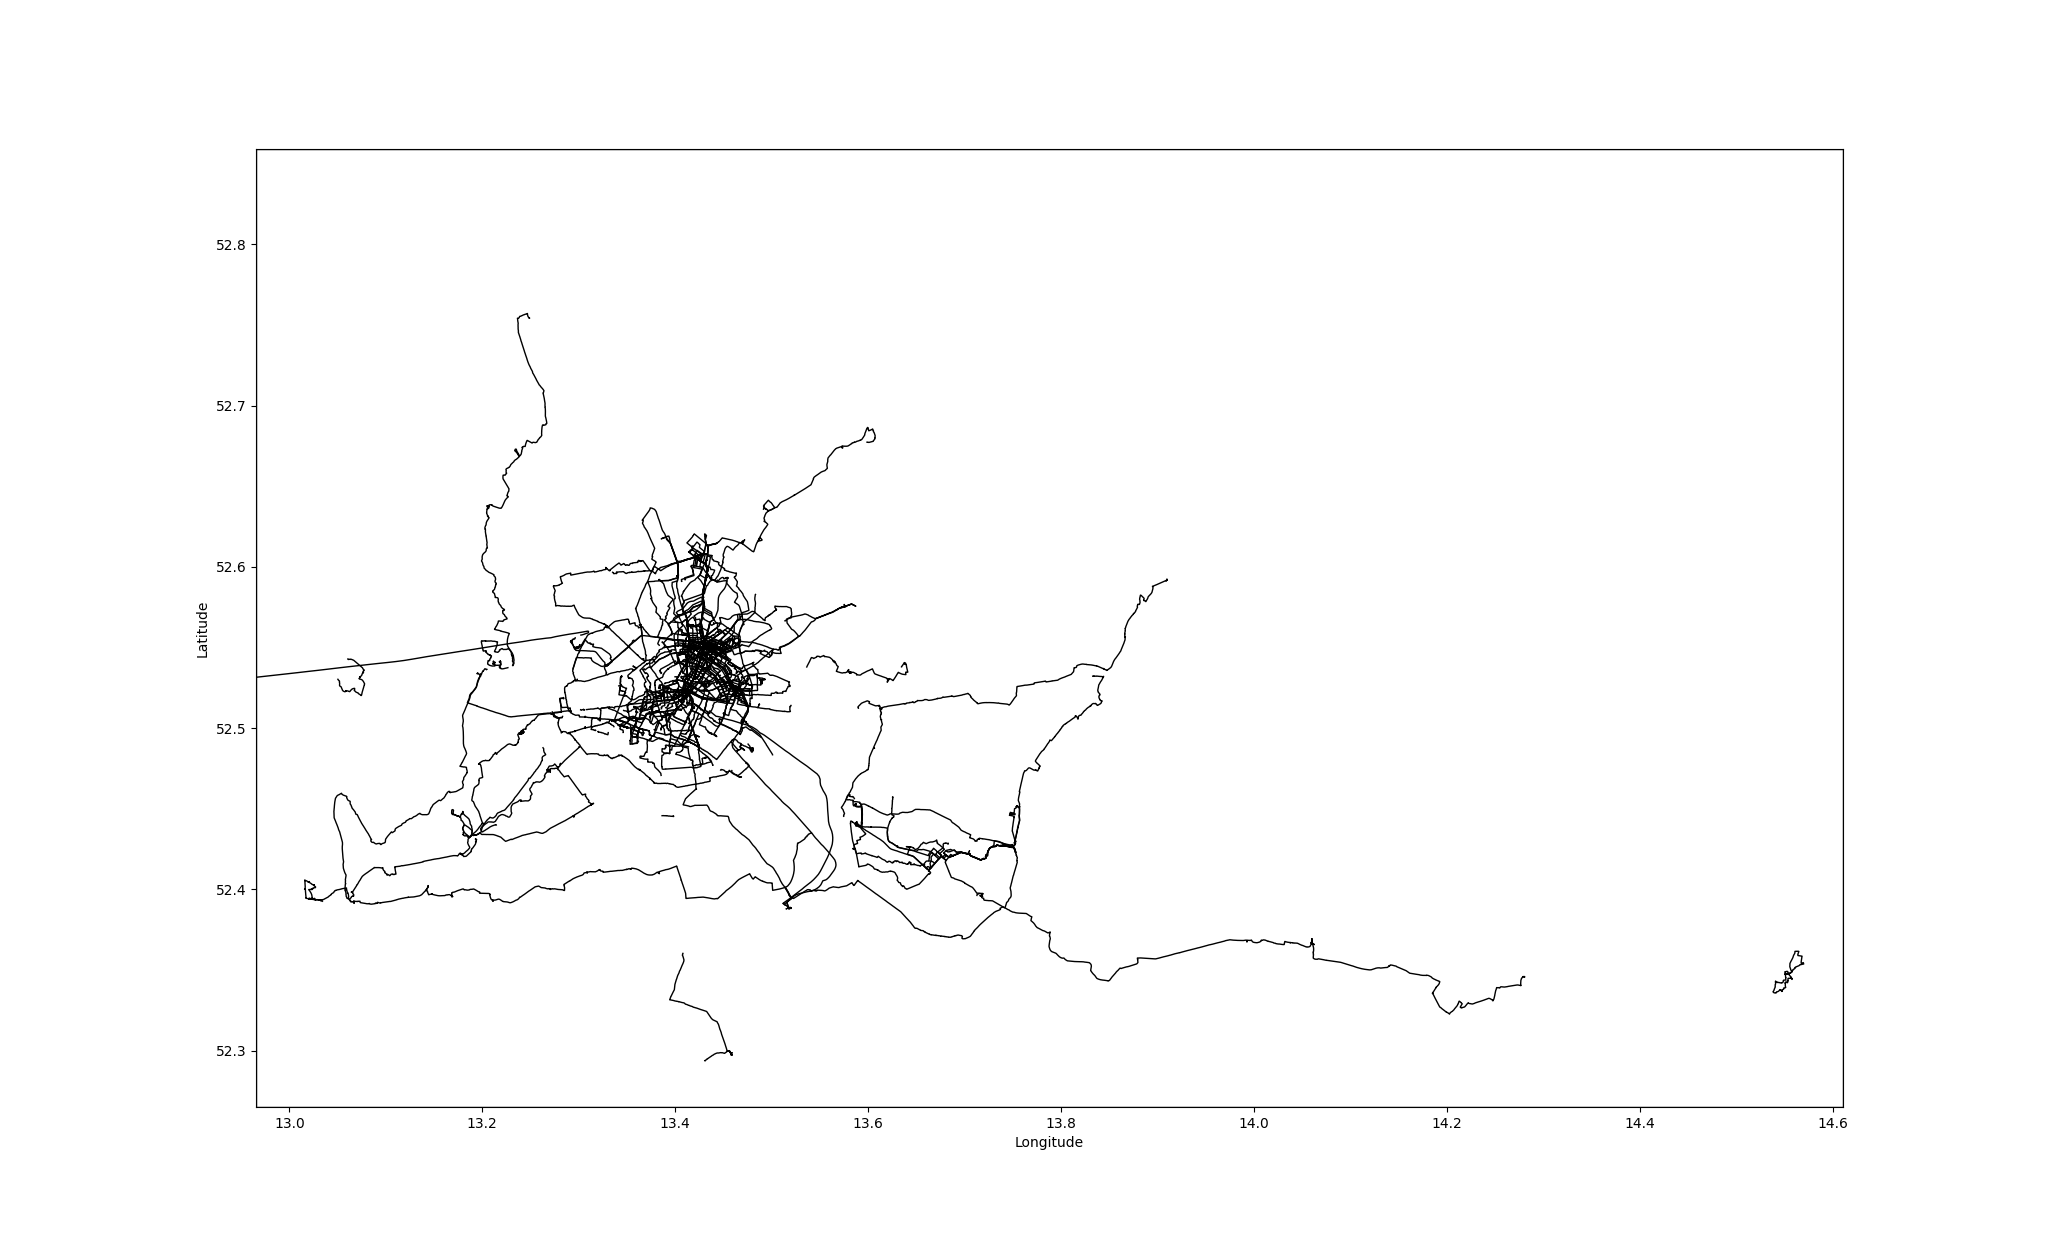
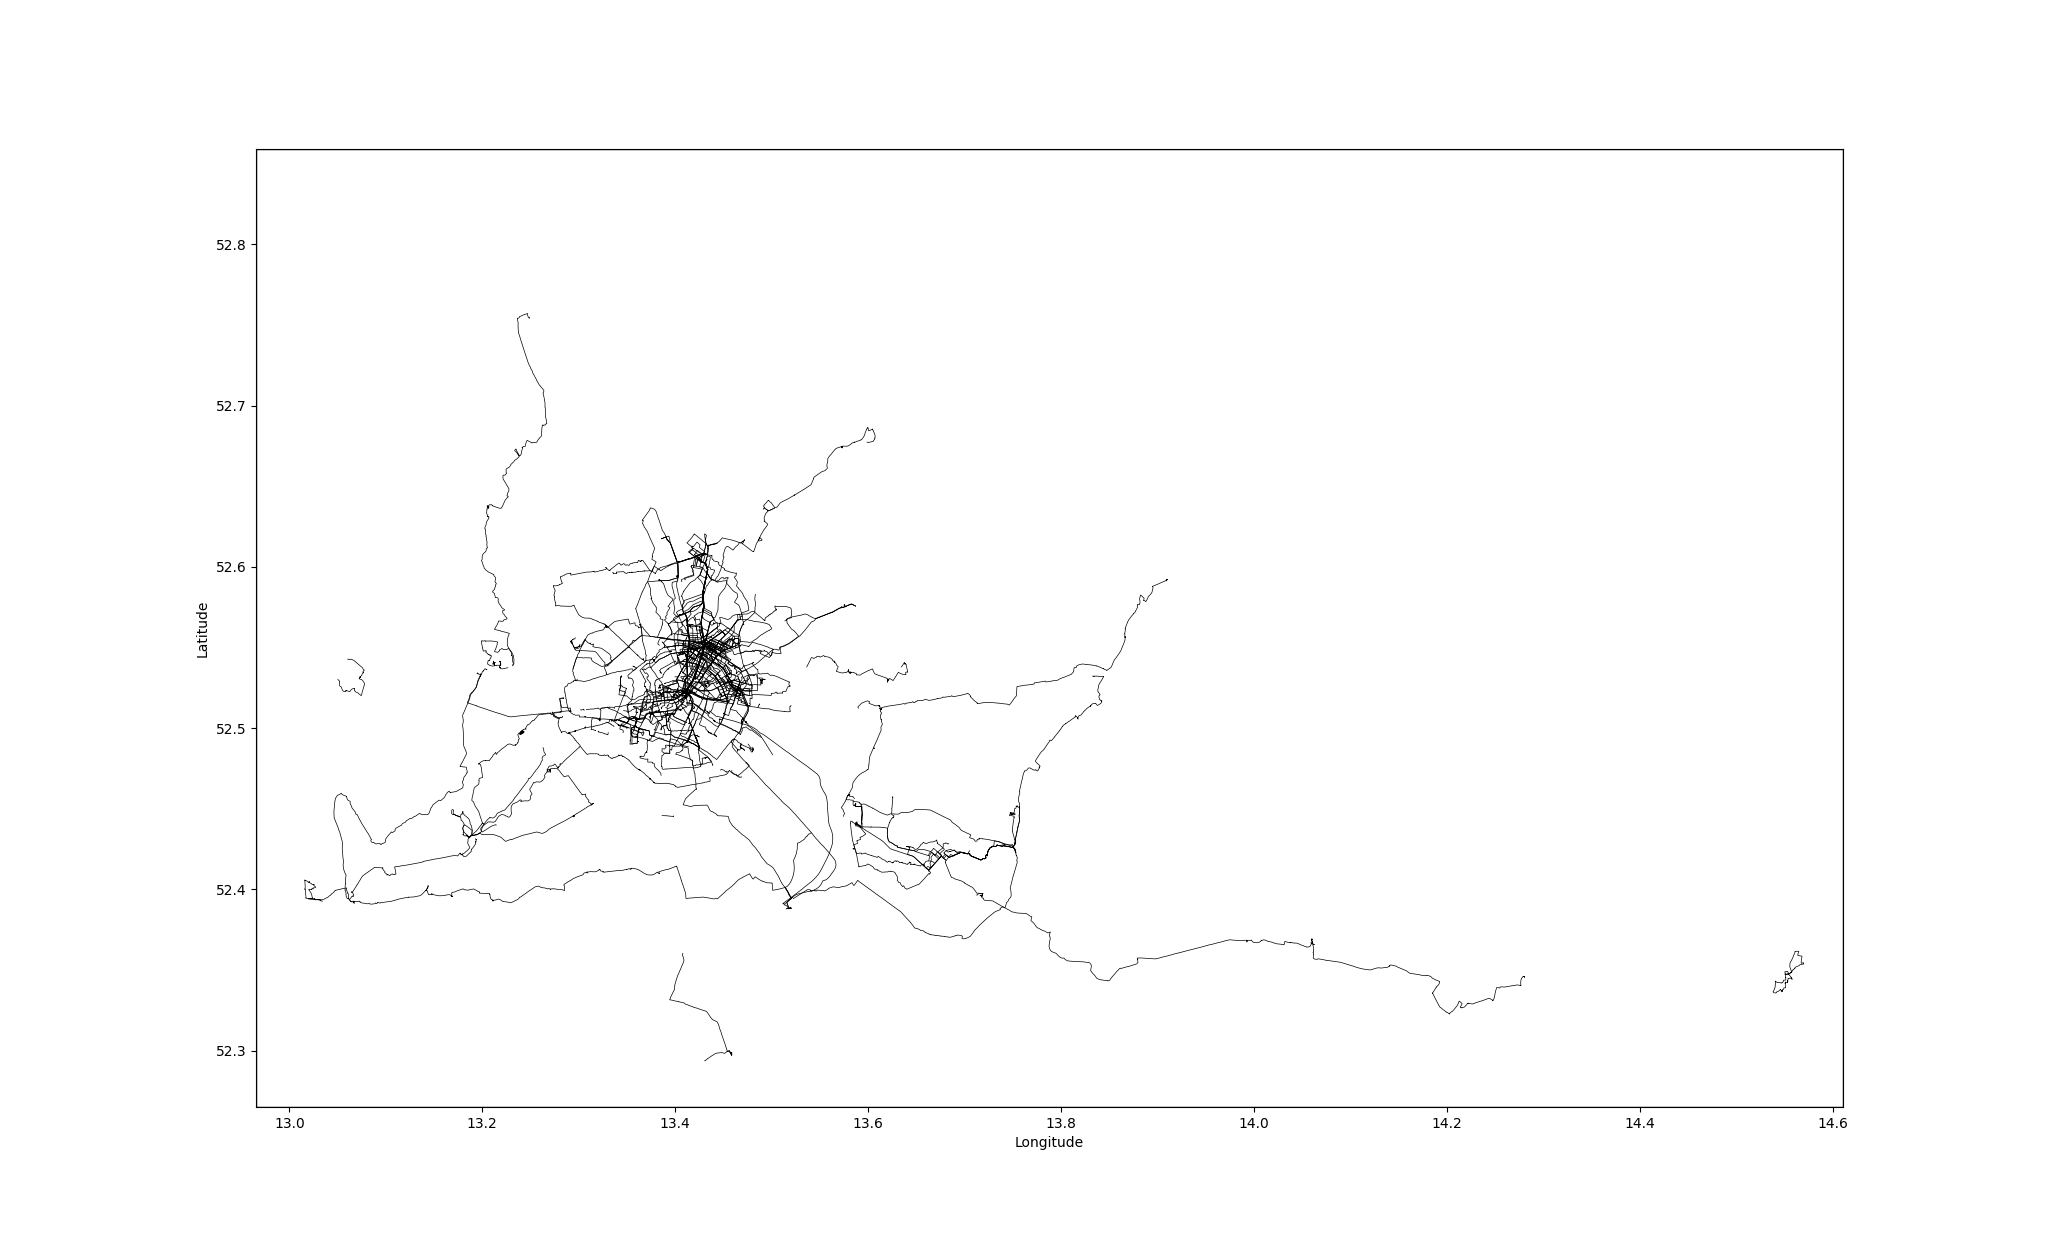
maxspeed

diff --git a/gpx-draw.py b/gpx-draw.py
@@ -7,19 +7,58 @@ from matplotlib.patches import Rectangle
 from matplotlib.backends.backend_agg import FigureCanvasAgg as FigureCanvas
 import xml.etree.ElementTree as ET
 import math
+from datetime import datetime
 
 def parse_gpx(file_path):
-    """Parse GPX file and return lists of latitudes and longitudes."""
+    """Parse GPX file and return list of (lat, lon, time) tuples."""
     tree = ET.parse(file_path)
     root = tree.getroot()
     ns = {'gpx': 'http://www.topografix.com/GPX/1/1'}
-    lats, lons = [], []
+    points = []
+    
     for trkpt in root.findall('.//gpx:trkpt', ns):
-        lats.append(float(trkpt.get('lat')))
-        lons.append(float(trkpt.get('lon')))
-    return lats, lons
+        lat = float(trkpt.get('lat'))
+        lon = float(trkpt.get('lon'))
+        time_elem = trkpt.find('gpx:time', ns)
+        if time_elem is not None:
+            time = datetime.fromisoformat(time_elem.text.replace("Z", "+00:00"))
+            points.append((lat, lon, time))
+    return points
 
-def plot_gpx_to_image(folder_path, output_filename='output.png', resolution=(512, 512), bbox=None):
+def haversine(lat1, lon1, lat2, lon2):
+    """Calculate great-circle distance in kilometers using the Haversine formula."""
+    R = 6371.0  # Earth radius in kilometers
+    
+    dlat = math.radians(lat2 - lat1)
+    dlon = math.radians(lon2 - lon1)
+    lat1_rad = math.radians(lat1)
+    lat2_rad = math.radians(lat2)
+    
+    a = math.sin(dlat / 2)**2 + math.cos(lat1_rad) * math.cos(lat2_rad) * math.sin(dlon / 2)**2
+    c = 2 * math.atan2(math.sqrt(a), math.sqrt(1 - a))
+    
+    return R * c
+
+def compute_speed_kph(lat1, lon1, lat2, lon2, dt_seconds):
+    """Return speed in km/h given two coordinates and time delta in seconds."""
+    distance_km = haversine(lat1, lon1, lat2, lon2)
+    hours = dt_seconds / 3600.0
+    return abs(distance_km / hours) # Care about speed, not velocity, so abs value
+
+def exceeds_speed_threshold(points, max_kph):
+    """Check if any segment exceeds max speed in km/h."""
+    for i in range(1, len(points)):
+        lat1, lon1, t1 = points[i - 1]
+        lat2, lon2, t2 = points[i]
+        dt_seconds = (t2 - t1).total_seconds()
+        if dt_seconds == 0:
+            continue
+        speed_kph = compute_speed_kph(lat1, lon1, lat2, lon2, dt_seconds)
+        if speed_kph > max_kph:
+            return True
+    return False
+
+def plot_gpx_to_image(folder_path, output_filename='output.png', resolution=(512, 512), bbox=None, max_speed=None):
     """Plot GPX paths from the folder onto an image."""
     fig, ax = plt.subplots(figsize=(resolution[0] / 100, resolution[1] / 100), dpi=100)
     ax.set_facecolor('white')
@@ -27,9 +66,12 @@ def plot_gpx_to_image(folder_path, output_filename='output.png', resolution=(512
     for filename in os.listdir(folder_path):
         if filename.endswith('.gpx'):
             file_path = os.path.join(folder_path, filename)
-            lats, lons = parse_gpx(file_path)
-            if lats and lons:
-                ax.plot(lons, lats, 'k-', linewidth=1)  # Draw path with black lines
+            points = parse_gpx(file_path)
+            if max_speed is not None and exceeds_speed_threshold(points, max_speed):
+                print(f"Skipping {filename} (exceeds {max_speed} km/h)")
+                continue
+            lats, lons = zip(*[(p[0], p[1]) for p in points])
+            ax.plot(lons, lats, 'k-', linewidth=0.5)  # Draw path with black lines
     
     if bbox:
         ax.set_xlim(bbox[0], bbox[1])
@@ -66,6 +108,7 @@ if __name__ == "__main__":
     parser.add_argument('--resolution', type=int, nargs=2, default=[512, 512], help='Output image resolution (width height).')
     parser.add_argument('--bbox', type=float, nargs=4, help='Bounding box (min_lon, max_lon, min_lat, max_lat).')
     parser.add_argument('--autoscale', type=int, help='Target image height in pixels. Width is calculated by latitude. Requires --bbox.')
+    parser.add_argument('--maxspeed', type=float, help='Exclude GPX tracks that exceed this speed (km/h).')
     
     args = parser.parse_args()
     
@@ -74,4 +117,4 @@ if __name__ == "__main__":
     elif args.resolution:
         resolution = tuple(args.resolution)
     
-    plot_gpx_to_image(args.folder_path, args.output, resolution, args.bbox)
+    plot_gpx_to_image(args.folder_path, args.output, resolution, args.bbox, args.maxspeed)
